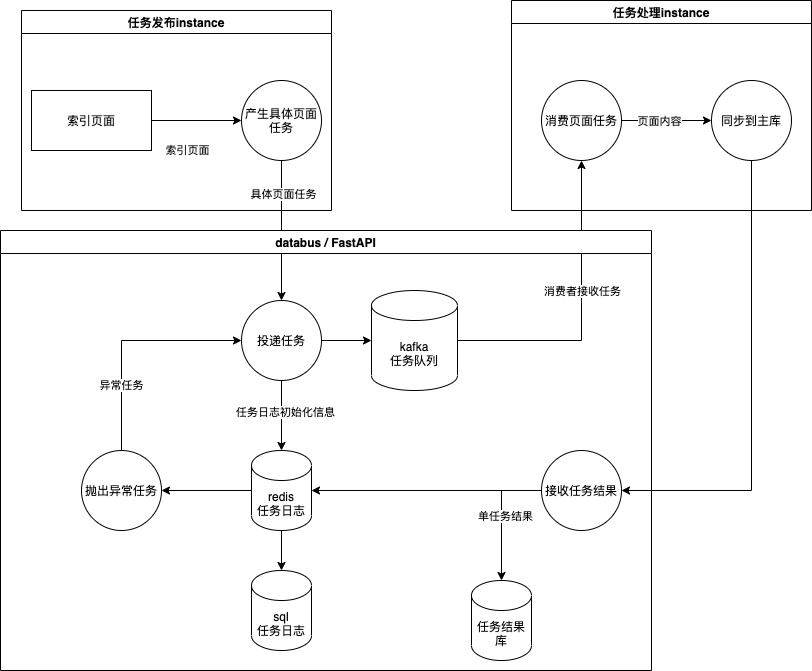
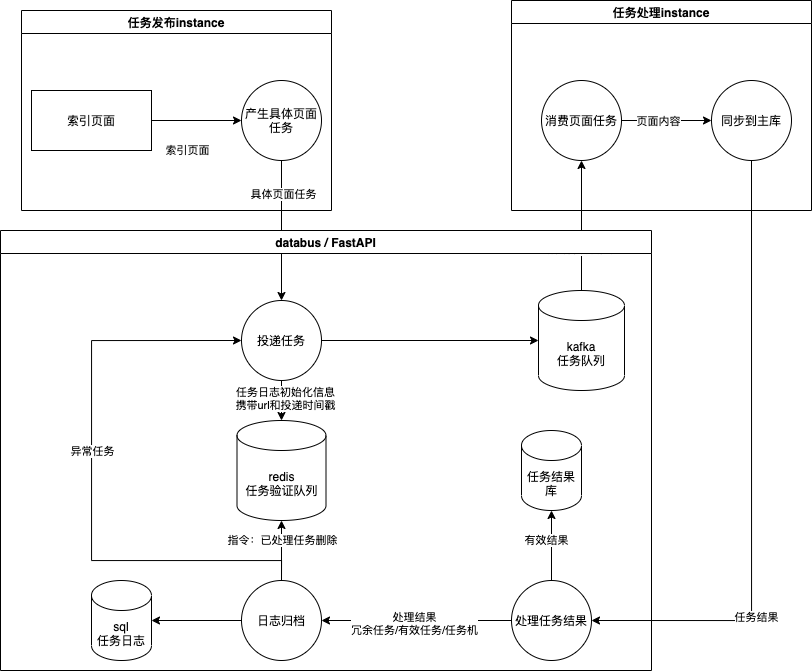
re

diff --git a/databus/internal/dao/sql_client.py b/databus/internal/dao/sql_client.py
@@ -9,7 +9,7 @@ from hashlib import md5
 # 创建对象的基类:
 Base = declarative_base()
 # 初始化数据库连接:
-engine = create_engine('mysql+mysqlconnector://root:x74rtw05@localhost:3306/mission_record')
+engine = create_engine('mysql+pymysql://root:x74rtw05@localhost:3306/tax_crawler')
 # 创建DBSession类型:
 DBSession = sessionmaker(bind=engine)
 
@@ -32,12 +32,15 @@ def get_session():
 
 def create_record_sql(page_url: str):
     with get_session() as ds:
-        mr = MissionRecord(uniqueID=md5((page_url +
-                                         str(datetime.datetime.now().strftime("_%Y%m%d_%H%M%S_%f"))).encode("utf-8"))
-                           , mission_status="pre")
+        mr = MissionRecord(uniqueID=(md5(page_url.encode("utf-8")).hexdigest()) + str(
+            datetime.datetime.now().strftime("_%Y%m%d_%H%M%S_%f"))
+                           , page_url=page_url, mission_status="pre")
         ds.add(mr)
         ds.commit()
-        return
+
+
+def update_record_sql(uniqueID):
+    pass
 
 
 if __name__ == "__main__":

diff --git a/databus/internal/service/mission_recorder/mission_create.py b/databus/internal/service/mission_recorder/mission_create.py
@@ -1,16 +1,33 @@
-from redis_record import set_mission_status
+import datetime
+import json
+import time
+from hashlib import md5
+
+from redis_record import add_mission_status
 from databus.internal.dao.kafka_producer import get_producer_ins
 
 kfk = get_producer_ins(None)
 
 
 def create_mission(url: str):
+    """
+
+    :param url: 页面链接，任务唯一标识
+    :return:
+    """
+    post_time = time.time()
     # kafka投递
-    kfk.send('tax_crawler', 'mission_seq', url, 0)
+    kfk.send('tax_crawler', 'mission_seq', json.dumps({"url": url, "post_time": post_time}), 0)
     # redis日志记录
-    set_mission_status(page_url=url, status="seq")
+    add_mission_status(page_url=url, latest_post=post_time)
 
 
 def receive_mission_result(url: str, status_code: str):
-    # redis日志记录回写
-    set_mission_status(page_url=url, status=status_code)
+    """
+
+    :param url:
+    :param status_code: 任务处理最终状态
+    :return: redis日志记录回写
+    """
+
+    add_mission_status(page_url=url, status=status_code)

diff --git a/databus/internal/service/mission_recorder/redis_record.py b/databus/internal/service/mission_recorder/redis_record.py
@@ -3,5 +3,27 @@ from databus.internal.dao.redis_client import get_redis_conn
 __redis_cli = get_redis_conn()
 
 
-def set_mission_status(page_url: str, status: str):
-    return __redis_cli.hset("missions", page_url, status)
+# 考虑一个问题，当新任务发出，但是Redis日志队列中仍然有重复的URL任务时，Kafka中的任务已经发出了，对redis任务做更改是无意义的，所以应该允许URL重复，用唯一ID做标识
+
+def add_mission_status(page_url: str, latest_post: float):
+    """
+
+    :param page_url:
+    :param latest_post:
+    :return:
+    """
+    return __redis_cli.hset("missions", page_url, latest_post)
+
+
+def remove_mission_status(page_url, latest_receive: float):
+    """
+
+    :param page_url: 查验url
+    :param latest_receive:时间戳校验
+    :return:
+    """
+    if __redis_cli.hget("missions", page_url) == str(latest_receive):  # 但是读出来的是个str
+        return __redis_cli.hdel("missions", page_url)
+    else:
+
+        return

diff --git a/databus/internal/dao/test_redis.py b/databus/internal/dao/test_redis.py
@@ -1,9 +1,9 @@
-from databus.internal.service.mission_recorder.redis_record import set_mission_status
+from databus.internal.service.mission_recorder.redis_record import add_mission_status
 from logging import Logger
 
 
 def test_conn():
-    resp = str(set_mission_status("111", "undo"))
+    resp = str(add_mission_status("111", 11.11))
     logger = Logger("test")
     print(resp)
     logger.info(resp)

diff --git a/databus/internal/utils/uuid_gen.py b/databus/internal/utils/uuid_gen.py
@@ -11,3 +11,4 @@ def gen_uid4():
 if __name__ == "__main__":
     # print((gen_uid4()+str(datetime.datetime.now().strftime("_%Y%m%d_%H%M%S_%f"))))
     print(len(md5("111".encode("utf-8")).hexdigest()+str(datetime.datetime.now().strftime("_%Y%m%d_%H%M%S_%f"))))
+    print(time.time(),type(time.time()))

diff --git a/databus/internal/dao/play_field.py b/databus/internal/dao/play_field.py
@@ -1,0 +1,8 @@
+from databus.internal.dao.redis_client import get_redis_conn
+
+__redis_cli = get_redis_conn()
+
+if __name__ == "__main__":
+    resp = __redis_cli.hget("missions","111")
+    print(resp, type(resp))
+    print(__redis_cli.hdel("missions","111"))
